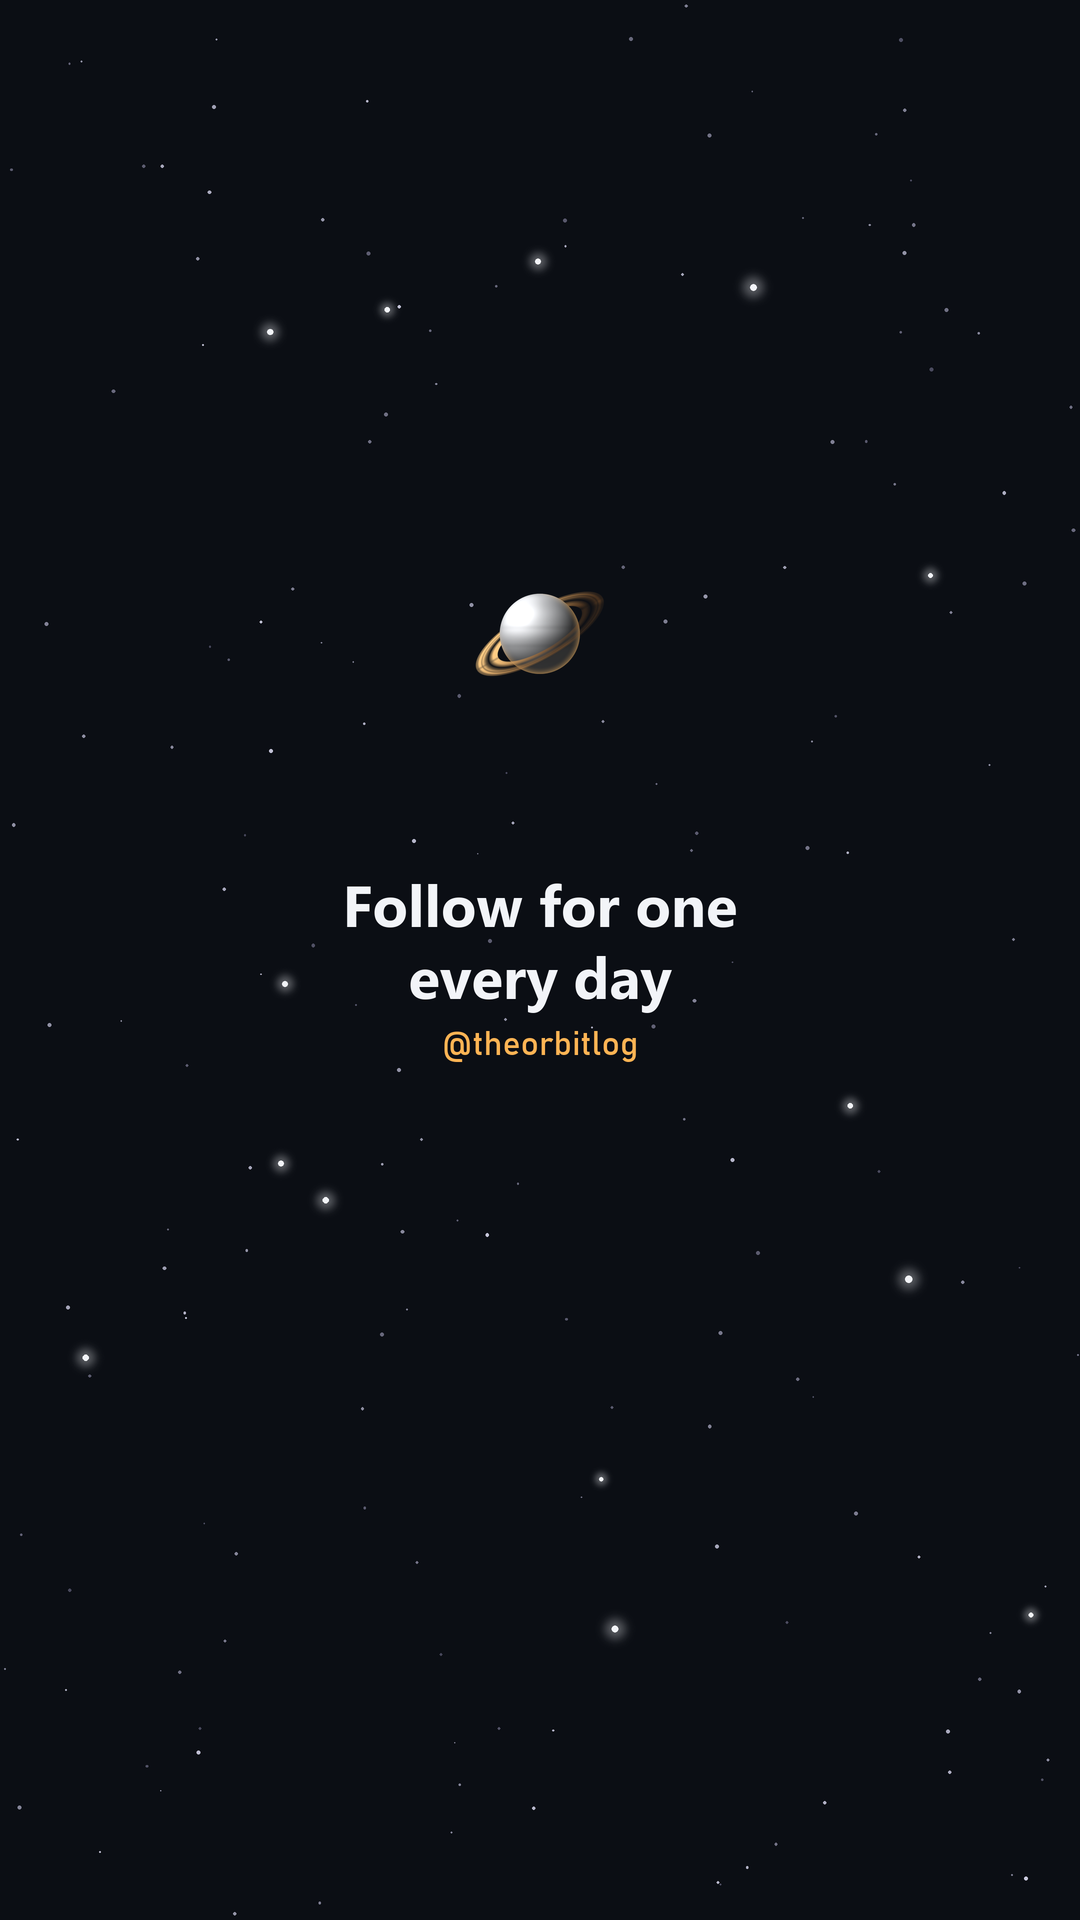
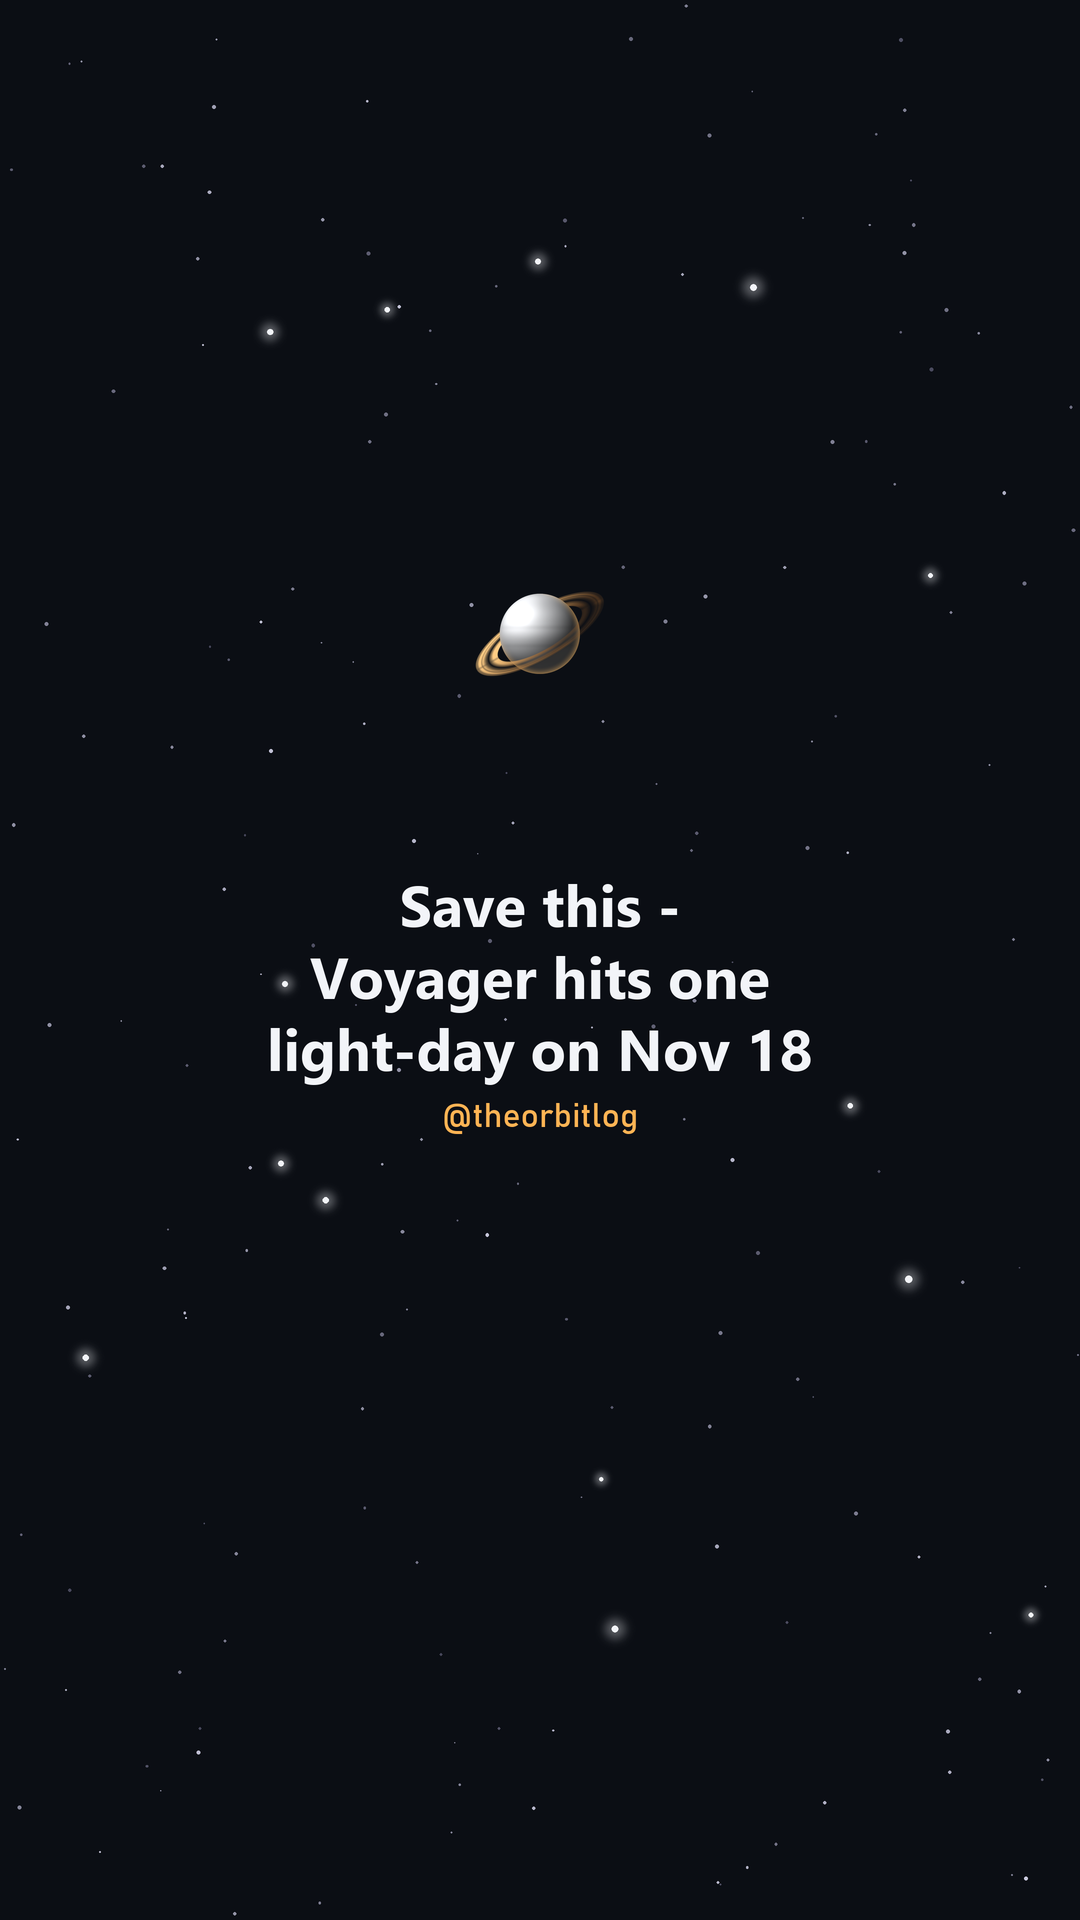
w4-voyager-light-day: Save-CTA im Endframe

Changed region(s): [[0.2444, 0.4375, 0.7028, 0.5938], [0.7028, 0.5312, 0.7639, 0.5625]]

diff --git a/w4-voyager-light-day/make-w4-voyager-light-day-reel.py b/w4-voyager-light-day/make-w4-voyager-light-day-reel.py
@@ -158,7 +158,7 @@ def main():
                with_credit=True),
         frame_round_trip(),
         frame_next(),
-        frame_cta(("Follow for one", "every day")),
+        frame_cta(("Save this -", "Voyager hits one", "light-day on Nov 18")),
     ]
     finish(frames, OUT, "w4-voyager-light-day", cover_idx=4)
 
